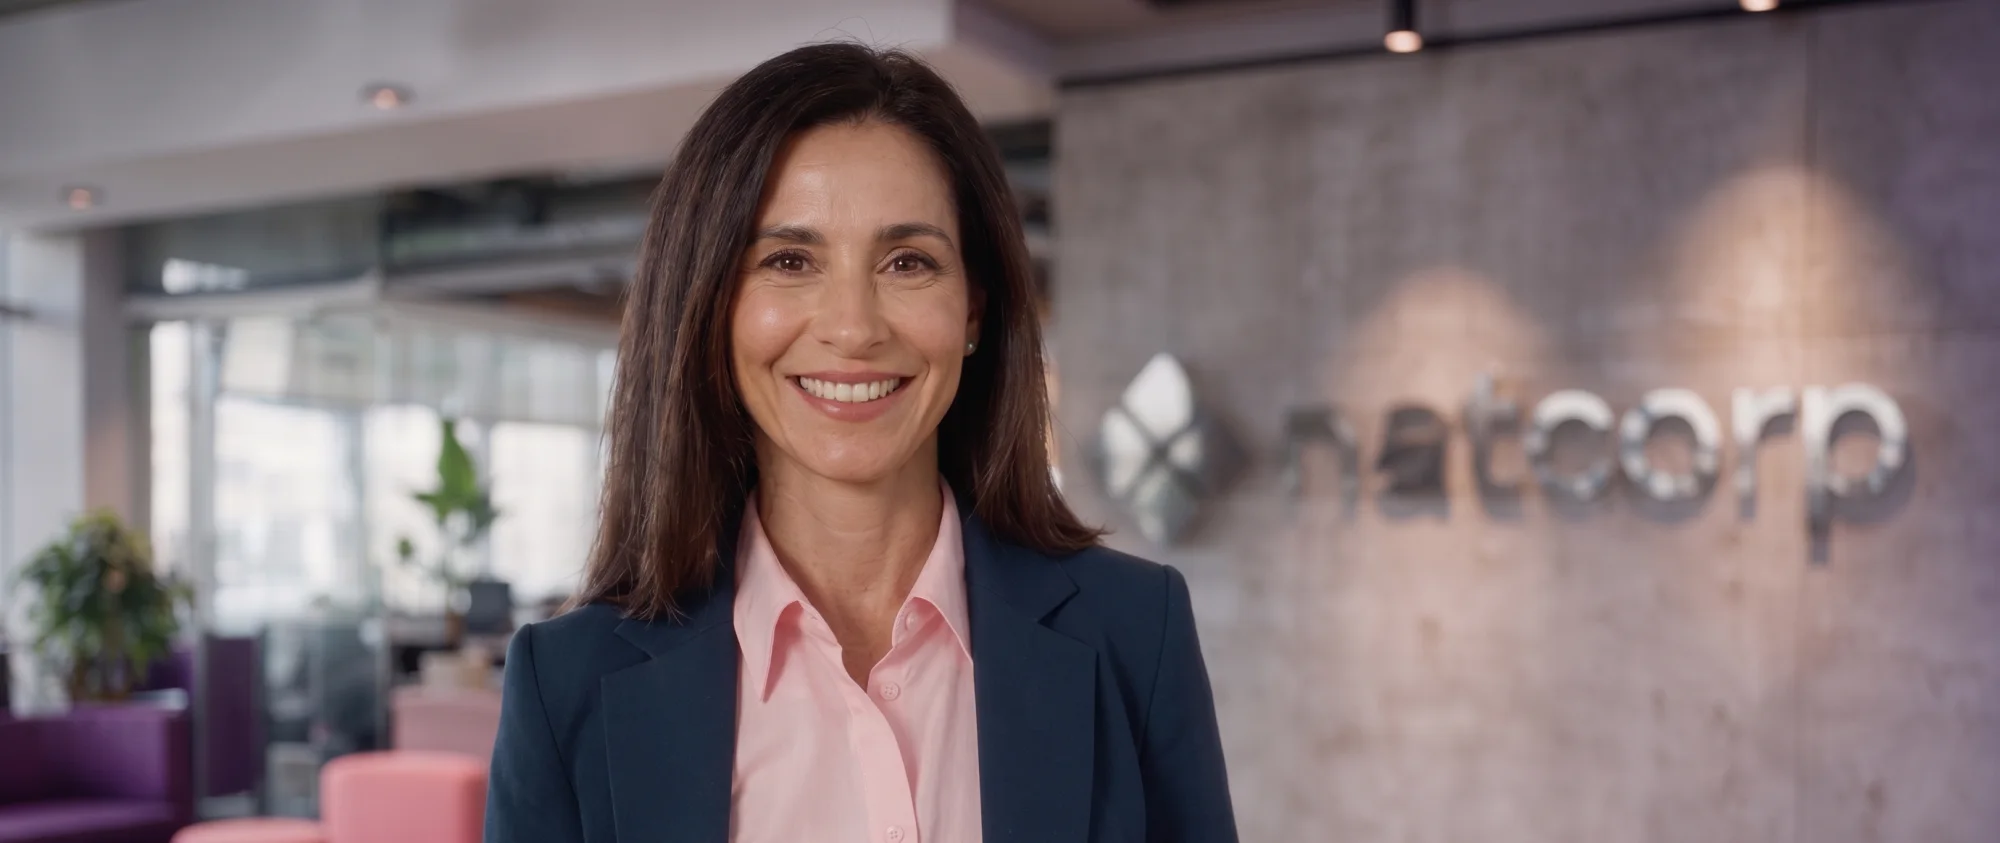
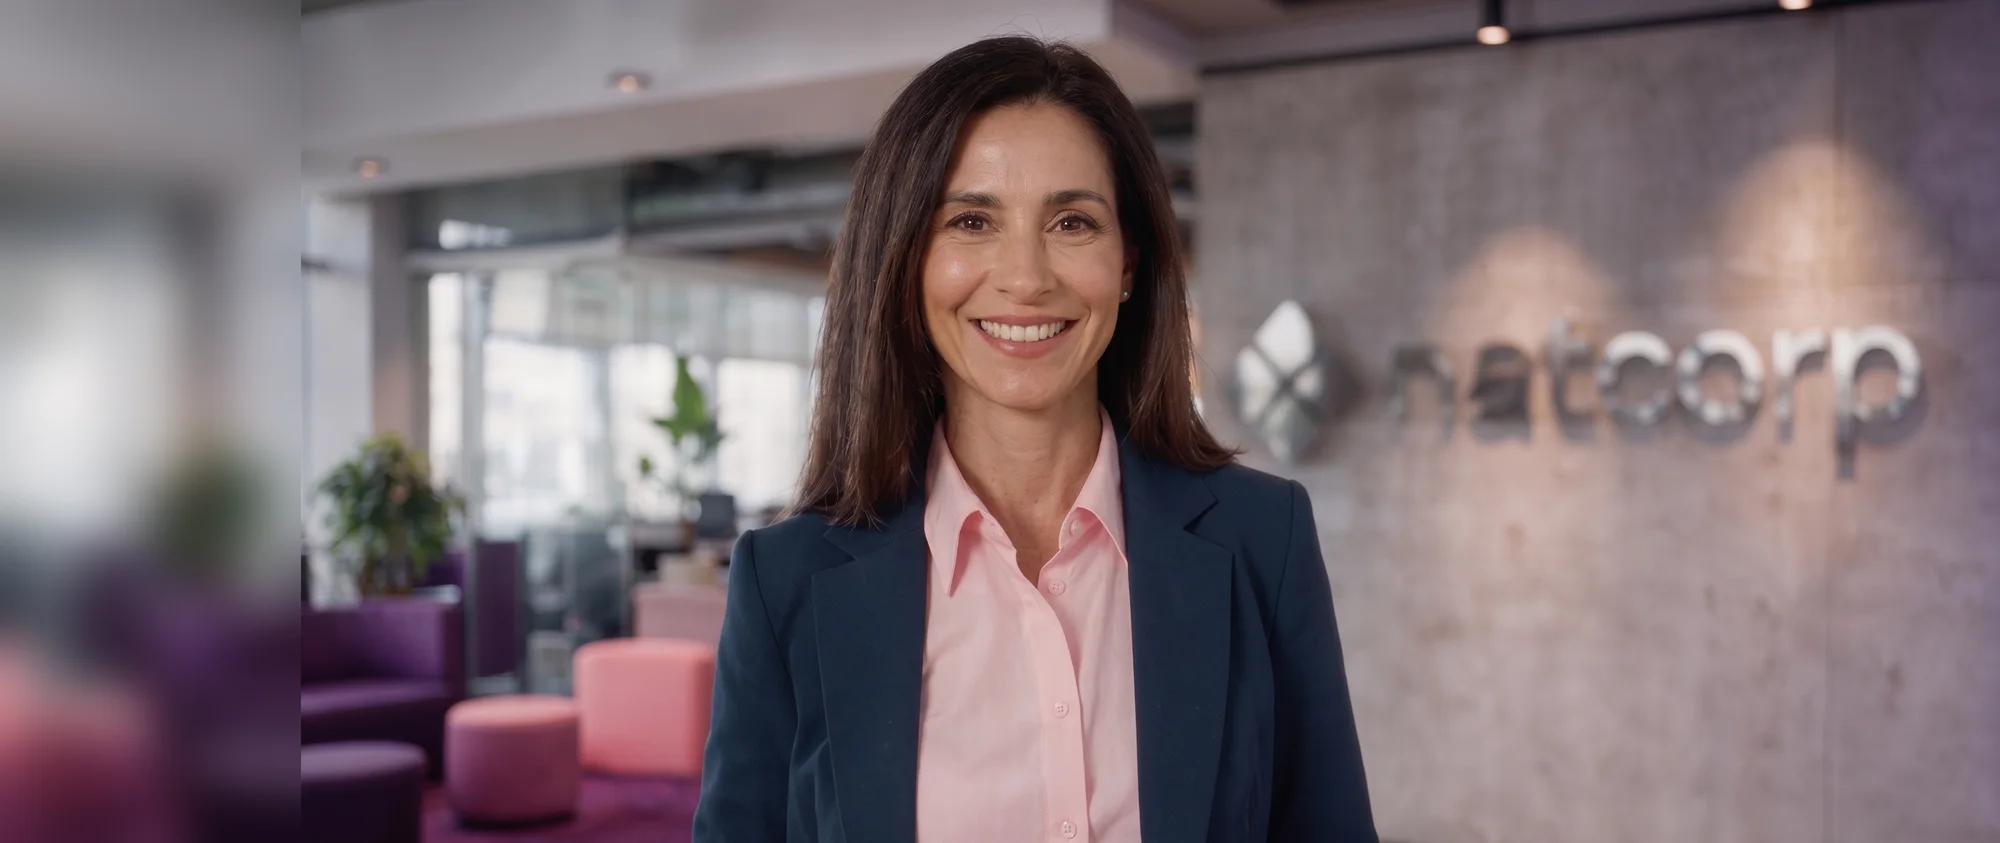
Hero: rosto 15% mais à direita, com o letreiro mantido
Pedido: afastar a mulher mais para a direita. O --fx sozinho não dava conta — de
24% até 0% são só 8 pontos de deslocamento, metade do pedido, e abaixo de 0 o
quadro recua e aparece uma emenda vertical nítida na borda esquerda (testei; ela
se vê, principalmente na metade de baixo, onde a foto é mais clara).

A conta explica por quê. Rosto e letreiro estão a 910px um do outro na foto. Para
o rosto ficar em 62% da tela e o "a" do natcorp continuar visível, a janela teria
de começar 335px ANTES da borda esquerda da foto. Não existe recorte que resolva:
é geometria, não ajuste.

Então a tela cresceu 489px à esquerda — os próprios 489px da foto, espelhados e
com desfoque forte. Caem na faixa onde o véu tem 78% a 92% de roxo, e por isso
não se veem. É pixel fabricado, e está dito no comentário do componente para
ninguém descobrir isso por acidente depois.

Resultado: rosto de 47,6% para 61,7% da largura (+14 pontos), título com folga de
volta, letreiro com margem em vez de encostado na borda. Celular recalibrado de
36% para 51%, porque a tela da imagem mudou de tamanho.

Claude-Session: https://claude.ai/code/session_01G7eE5hi4R3ic2E6zyH6cPV

diff --git a/src/components/hero/HeroScene.tsx b/src/components/hero/HeroScene.tsx
@@ -21,14 +21,21 @@ import heroV2Large from '@/assets/people/hero-v2-3152.webp'
  * largura da imagem. O --fx decide QUAL pedaço: subir mostra mais do lado direito da imagem e puxa a
  * pessoa para a esquerda na tela; descer faz o contrário. Mudar a foto quase sempre exige recalibrar.
  *
- * A foto anterior tinha a pessoa à direita da imagem (54% a 86%) e pedia --fx:62% no desktop, 84% no
- * celular. Esta tem a pessoa ao centro (22% a 60%) e o letreiro da parede à direita (55% a 97%), então
- * a janela precisa ser larga o bastante para pegar os dois: a imagem usa a largura inteira da foto, e
- * o --fx em 24% deixa o rosto limpo do véu com o "natc" do letreiro legível atrás. Abaixo disso o
- * letreiro some; acima, a pessoa avança sobre o título.
+ * A foto anterior tinha a pessoa à direita da imagem e pedia --fx:62%. Esta tem a pessoa ao centro e o
+ * letreiro da parede à direita, e os dois precisam caber na mesma janela.
  *
- * Recortar mais fechado NÃO resolve: cada recorte mais apertado deixa a pessoa maior, porque o quadro
- * é sempre esticado para cobrir a seção. Quem enquadra é o --fx, não a tesoura.
+ * POR QUE A IMAGEM TEM 489px DE TELA ESTENDIDA À ESQUERDA
+ *
+ * Rosto e letreiro estão a 910px um do outro na foto. Para o rosto ficar em 62% da tela (longe do véu
+ * e do título) e o "a" do natcorp continuar visível, a janela teria de começar 335px ANTES da borda
+ * esquerda da foto. Nenhum recorte resolve isso — a conta não fecha com a foto original, e recortar
+ * mais fechado só deixa a pessoa maior, porque o quadro é sempre esticado para cobrir a seção.
+ *
+ * Então a tela cresceu: os 489px à esquerda são os 489px da própria foto, espelhados e com desfoque
+ * forte. Eles caem na faixa onde o véu tem 78% a 92% de roxo, e por isso não se veem. A alternativa
+ * seria deixar o quadro recuar (--fx negativo), e aí aparece uma emenda vertical nítida na borda.
+ *
+ * Se a foto mudar, esta extensão precisa ser refeita — o script está no histórico deste commit.
  */
 
 const W = 2000
@@ -82,7 +89,7 @@ export function HeroScene({ on, reduced, loops = true, instant = false, y }: Her
       */}
       <div className="absolute inset-x-0 top-0 h-[62%] overflow-hidden [container-type:size] lg:h-full">
         <m.div
-          className="absolute [--fx:36%] [--fy:50%] lg:[--fx:24%] lg:[--fy:45%]"
+          className="absolute [--fx:51%] [--fy:50%] lg:[--fx:17%] lg:[--fy:45%]"
           style={{
             left: 'var(--fx)',
             top: 'var(--fy)',
@@ -100,7 +107,7 @@ export function HeroScene({ on, reduced, loops = true, instant = false, y }: Her
         >
           <img
             src={heroV2}
-            srcSet={`${heroV2} 2000w, ${heroV2Large} 2760w`}
+            srcSet={`${heroV2} 2000w, ${heroV2Large} 3249w`}
             sizes="(min-width: 1024px) 125vw, 150vw"
             alt="Profissional de RH sorrindo no escritório da Natcorp, com o logotipo da empresa na parede ao fundo"
             width={W}
